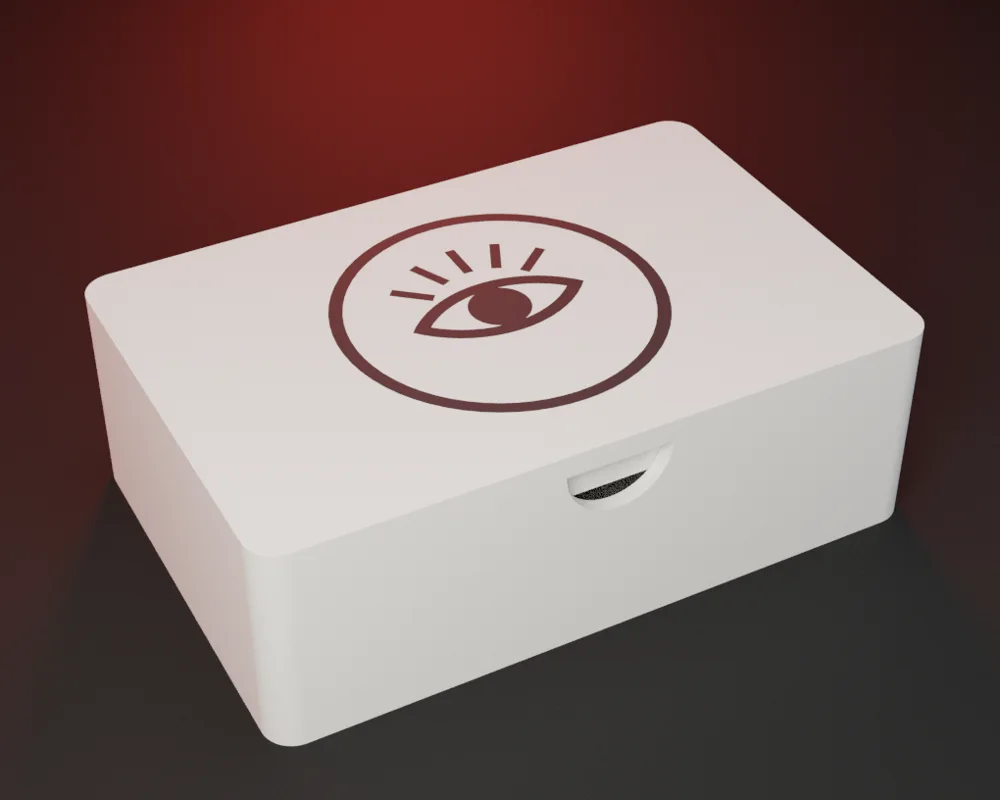
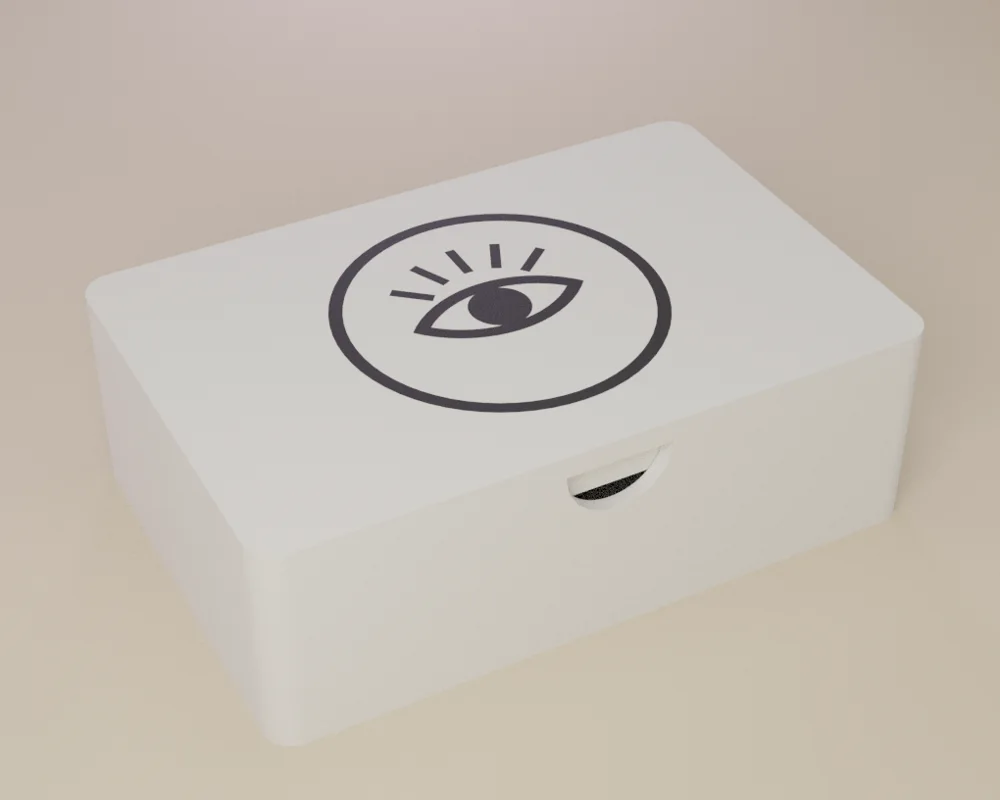
Caixa elemental decorada (runas, moldura, painéis e cantoneiras); fotos novas
Claude-Session: https://claude.ai/code/session_01EVcsuvZb6BeXcRbzSx5Fko

diff --git a/site/gerar_imagens.py b/site/gerar_imagens.py
@@ -30,7 +30,7 @@ def kit(corpo):
 
 
 def caixa(e, corpo):
-    return f'include <{M}/dados/caixa_elementos.scad>\nPARTE = "nada"; NOME = false; ELEMENTO = "{e}";\n{corpo}\n'
+    return f'include <{M}/dados/caixa_elementos.scad>\nPARTE = "nada"; NOME = false; DECOR = true; ELEMENTO = "{e}";\n{corpo}\n'
 
 
 def relic(e, corpo):
